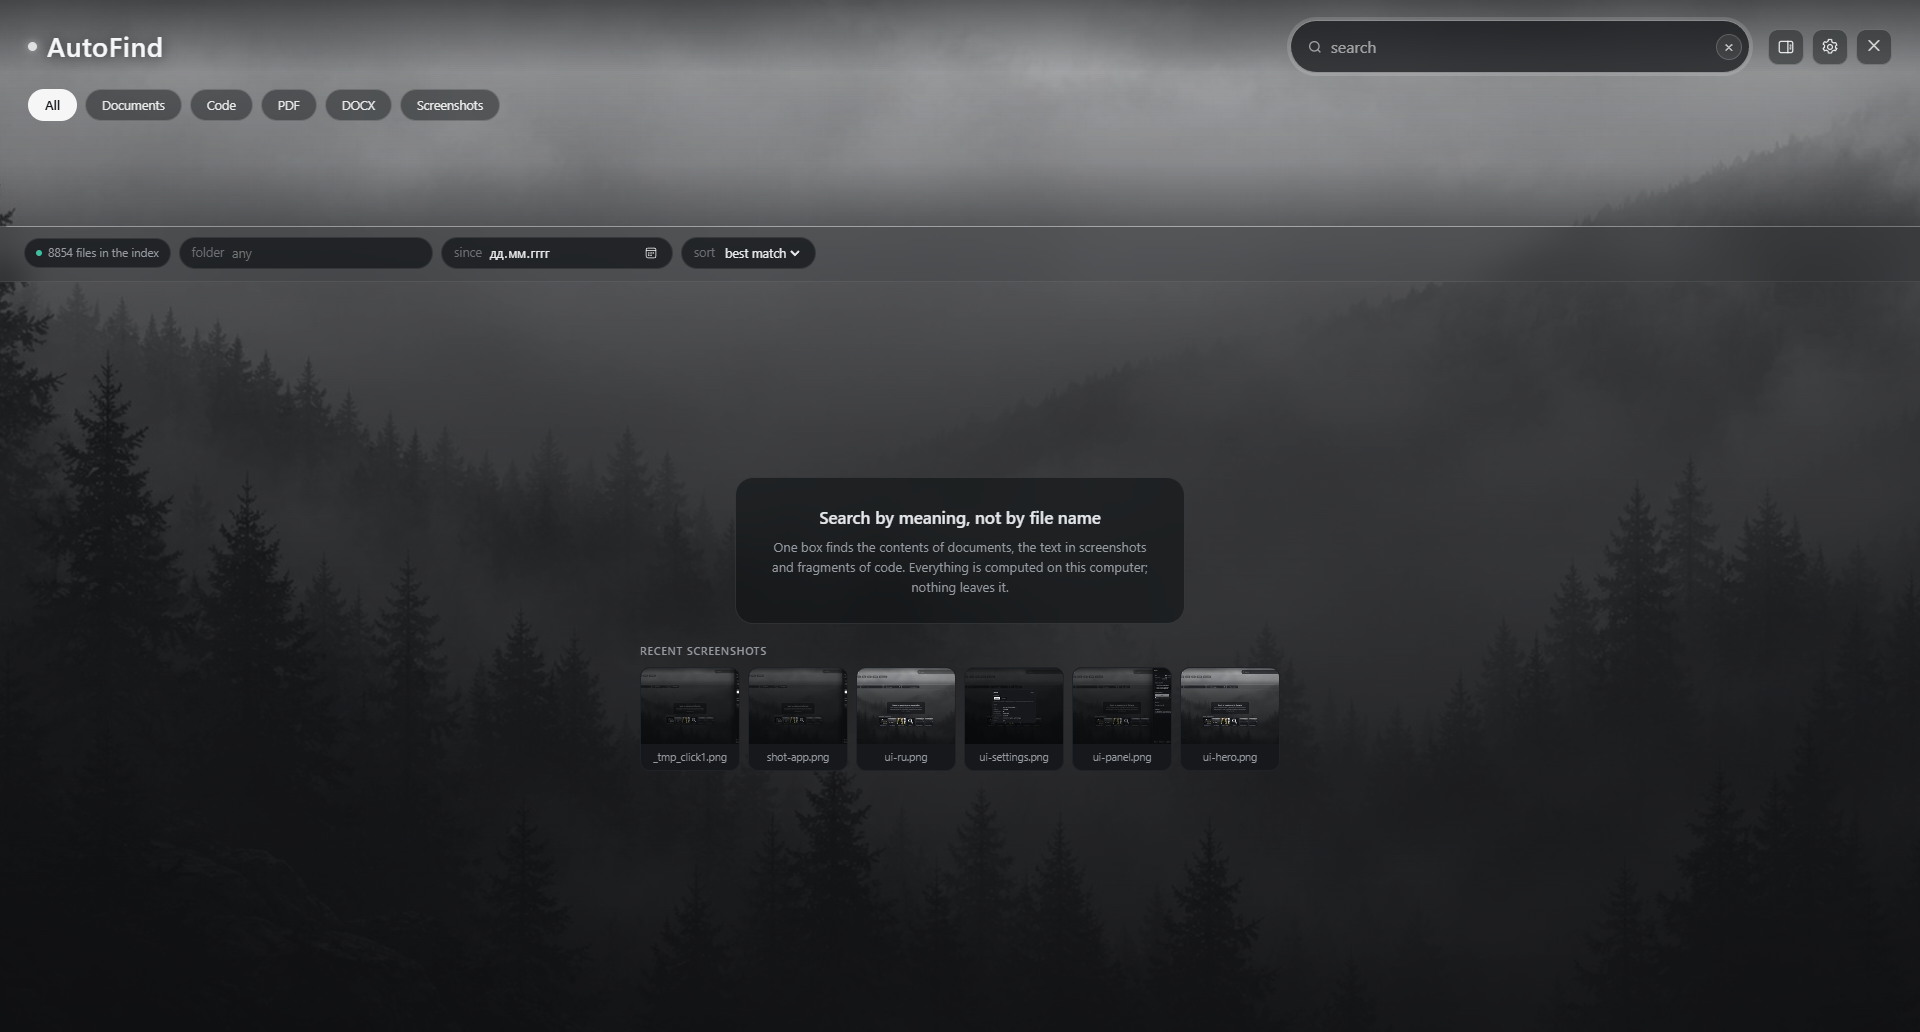
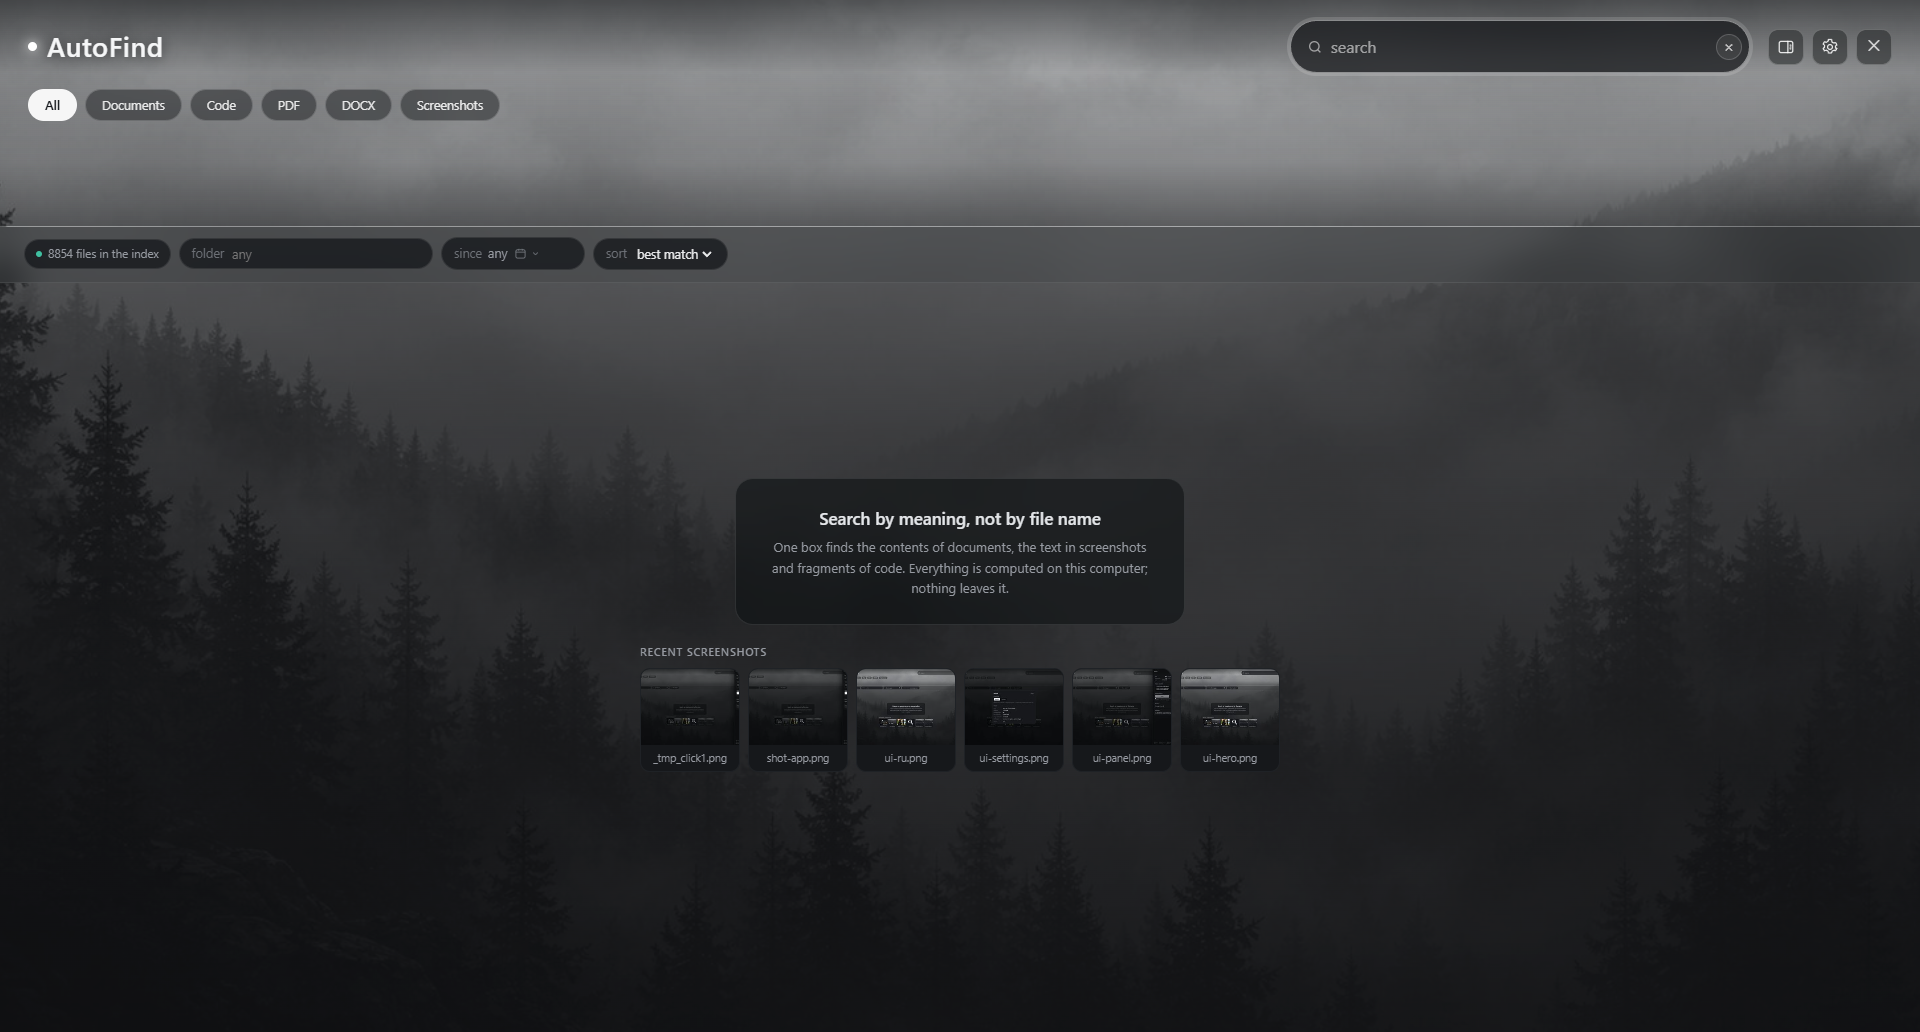
Return focus to the date button after a day is picked

diff --git a/web/app.js b/web/app.js
@@ -145,6 +145,9 @@ function setSince(value) {
   state.since = value;
   paintSince();
   openCalendar(false);
+  // The day button that was just clicked is gone with the popup; focus goes
+  // back to the trigger so the keyboard is not stranded on a hidden element.
+  $("since-btn").focus();
   if (state.query) runSearch();
 }
 
